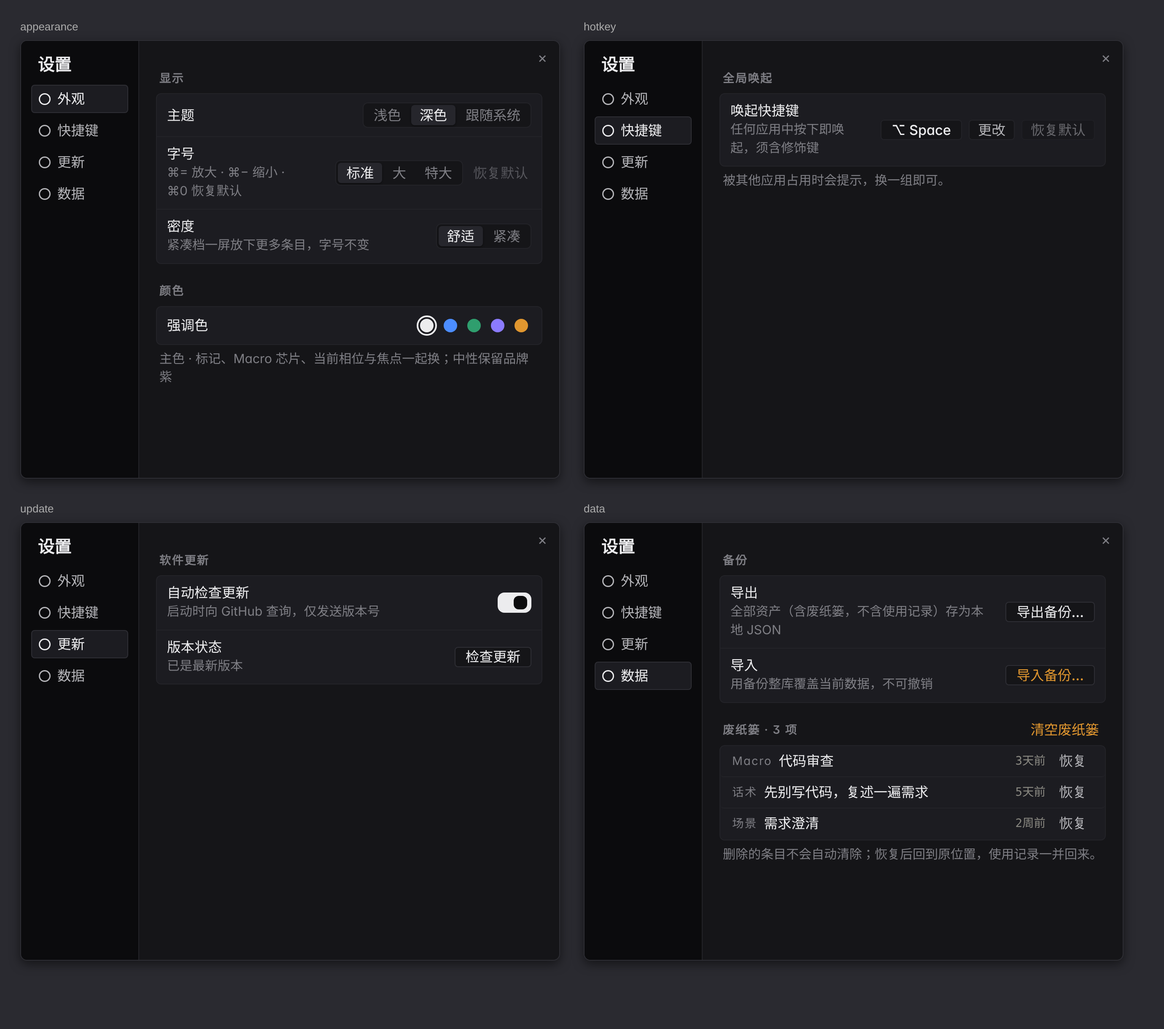
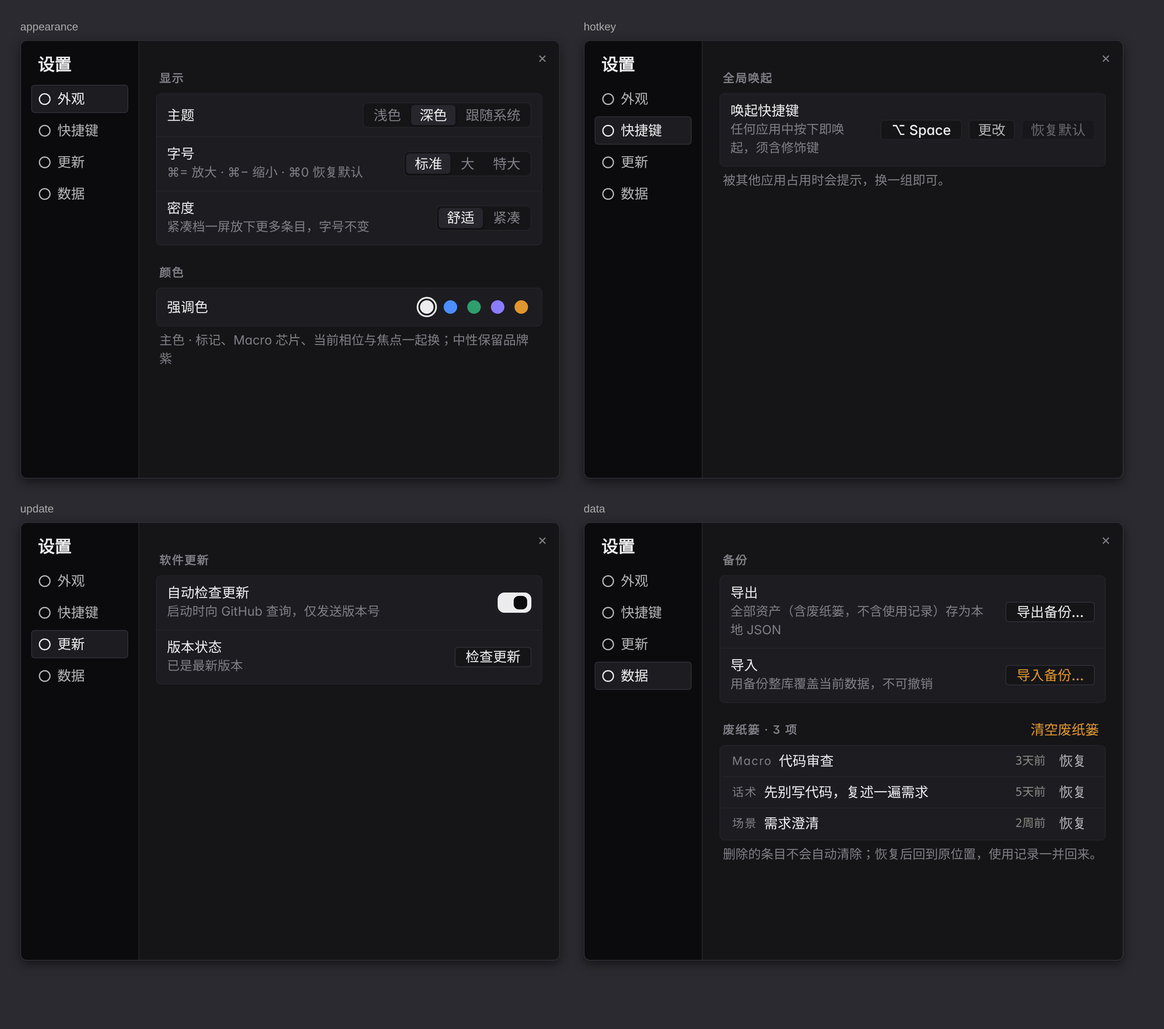
feat(settings)!: drop the text-size 恢复默认 button (#29, needs sign-off)
The 标准 step is itself "restore default", and ⌘0 still returns to it, so the
button was a third entry point for one action with no place in the grouped
row. ⌘0 behaviour and its App.test case are untouched.

This changes the first half of issue #25's acceptance line ("恢复默认 and ⌘0
both return to 标准") and awaits HuiW86's sign-off. Kept in its own commit,
together with the test and the doc lines that concern only this item, so it
can be reverted on its own if declined.

BREAKING CHANGE: the 字号 row no longer has a 恢复默认 button.

Claude-Session: https://claude.ai/code/session_01NAChtZX6rWB3XJEK9qFLX6

diff --git a/src/components/__tests__/SettingsModal.test.tsx b/src/components/__tests__/SettingsModal.test.tsx
@@ -202,15 +202,12 @@ describe("SettingsModal — appearance text size (字号)", () => {
     useSettingsStore.setState({ settingsOpen: true });
   });
 
-  it("picks a step, applies it live, and 恢复默认 resets it", () => {
+  it("picks a step, applies it live, and 标准 is the way back", () => {
     render(<SettingsModal />);
     const group = screen.getByRole("group", { name: "字号" });
     const standard = group.querySelector('[data-font-scale="standard"]')!;
     const xlarge = group.querySelector('[data-font-scale="xlarge"]')!;
-    const reset = screen.getByRole("button", { name: "恢复默认字号" });
     expect(standard).toHaveAttribute("aria-pressed", "true");
-    // Nothing to restore at the default: disabled, not hidden.
-    expect(reset).toBeDisabled();
 
     fireEvent.click(xlarge);
     expect(useSettingsStore.getState().fontScale).toBe("xlarge");
@@ -218,14 +215,18 @@ describe("SettingsModal — appearance text size (字号)", () => {
     expect(document.documentElement.classList.contains("text-xlarge")).toBe(
       true,
     );
-    expect(reset).toBeEnabled();
 
-    fireEvent.click(reset);
+    // No separate 恢复默认 button (issue #29): the 标准 step is the default,
+    // and ⌘0 (App.test) still returns to it.
+    expect(
+      screen.queryByRole("button", { name: "恢复默认字号" }),
+    ).not.toBeInTheDocument();
+    fireEvent.click(standard);
     expect(useSettingsStore.getState().fontScale).toBe("standard");
+    expect(standard).toHaveAttribute("aria-pressed", "true");
     expect(document.documentElement.classList.contains("text-xlarge")).toBe(
       false,
     );
-    expect(reset).toBeDisabled();
   });
 
   it("names the keyboard shortcuts so the setting is findable without the dialog", () => {

diff --git a/src/components/SettingsModal.tsx b/src/components/SettingsModal.tsx
@@ -12,7 +12,6 @@ import { useEffect, useRef, useState } from "react";
 import { ipc } from "../ipc";
 import {
   type Accent,
-  DEFAULT_FONT_SCALE,
   type Density,
   type FontScale,
   type ThemeMode,
@@ -449,6 +448,8 @@ export function SettingsModal() {
                         <span className={styles.nowrap}>{mod}0 恢复默认</span>
                       </span>
                     </div>
+                    {/* No separate 恢复默认 button (issue #29): the 标准 step is
+                        the default, and ⌘0 still returns to it. */}
                     <div className={styles.rowControl}>
                       <Segment
                         label="字号"
@@ -457,16 +458,6 @@ export function SettingsModal() {
                         onChange={setFontScale}
                         dataAttr="data-font-scale"
                       />
-                      <button
-                        type="button"
-                        className={styles.resetBtn}
-                        data-font-scale-reset
-                        aria-label="恢复默认字号"
-                        disabled={fontScale === DEFAULT_FONT_SCALE}
-                        onClick={() => setFontScale(DEFAULT_FONT_SCALE)}
-                      >
-                        恢复默认
-                      </button>
                     </div>
                   </div>
 

diff --git a/src/components/SettingsModal.module.css b/src/components/SettingsModal.module.css
@@ -316,36 +316,6 @@
   outline-offset: 0;
 }
 
-/* Quiet text button after the text-size segment: secondary to picking a size,
-   and disabled (not hidden) at the default so its place does not jump. */
-.resetBtn {
-  composes: ph-action from "../styles/typography.module.css";
-  height: var(--h-chip);
-  padding: 0 var(--s-1);
-  border: 0;
-  border-radius: var(--r-3);
-  background: transparent;
-  color: var(--fg-2);
-  cursor: pointer;
-  appearance: none;
-  transition: color var(--d-fast) var(--ease);
-}
-
-.resetBtn:hover:not(:disabled) {
-  color: var(--fg-1);
-  text-decoration: underline;
-}
-
-.resetBtn:disabled {
-  color: var(--fg-4);
-  cursor: default;
-}
-
-.resetBtn:focus-visible {
-  outline: var(--border-thick) solid var(--accent);
-  outline-offset: 0;
-}
-
 /* ── Accent swatches ────────────────────────────────────────────────────────
    Round dots; the picked one gets an outer ring (issue #29 V6/7). padding: 0
    is load-bearing: the UA button padding squeezed the 16px dot inside the 24px

diff --git a/docs/design/03-product-spec.md b/docs/design/03-product-spec.md
@@ -4,7 +4,7 @@ project: prompt-hub
 version: v0.34
 created: 2026-05-18
 last_modified: 2026-11-14
-status: draft  # v0.34 起草于 2026-11-14，待 HuiW86 签字（与 [[05-design-spec]] v0.28 同批，单裁点「设置弹窗改分组行形态」，issue #29 / PR #30）：§13.3 区域 9 结构与文案按新形态改写，交互契约一条不改，明细见文末修订记录 v0.34。前 v0.33 于 2026-11-14 经 HuiW86 签字（与 [[05-design-spec]] v0.27 同批，单裁点「字号可调 + 悬停全文预览」按推荐写回，issue #25 / PR #26），明细见文末修订记录 v0.33。前 v0.32 于 2026-11-14 经 HuiW86 签字，单裁点按推荐通过（与 [[032-panorama-work-stage-columns]] / [[05-design-spec]] v0.26 / [[06-prd]] v0.18 同批，单裁点「全景按工作阶段分列」），明细见文末修订记录 v0.32。前 v0.31 于 2026-11-13 经 HuiW86 签字（单裁点「唤起时进入哪个工作区」按推荐通过，实现时补一条例外：管理里有编辑面板开着时留在管理，防丢草稿）。起草说明：把已落地的「全景 / 管理 / 常用网站」三个工作区补写进契约（照 [[031-panorama-default-view]] 与 [[030-website-library]] 回流，新增 §13.6，§4.1 / §13.1 / §13.2 / §13.4 随之改口），本批唯一裁点「唤起是否总是回到全景」，明细见文末修订记录 v0.31。前 v0.30 于 2026-10-08 经 Rosa 在项目线程签字（人审批次 ⑬，单裁点「主界面减法 pass 四项」按推荐通过）：Header 副标与区域副标删除 / 相位格 `⌘N` 由常驻标签改悬停提示 / 对齐行标签改中文「对齐」（Toast 挪位属 [[05-design-spec]] 同批），明细见文末修订记录 v0.30。前 v0.29 于 2026-09-06 经 omar 签字（人审批次 ⑫，单裁点）：**编辑器加一行修订说明输入**——§13.3 区域 2-bis 编辑段新增「这次为什么改」可选单行输入（只在编辑态出现 / 正文未变时置灰并说明「改了正文才会记」/ 只填说明不算改动 / 正文真变时随保存写入，留空即清掉上一条、不预填旧值）。触发是 [[HANDOFF]] 第 53 项：[[029-alignment-coordinates-and-drift-ledger]] 子决策 5 的 `notes` 只有 Rust 与 IPC 写入方、UI 从无入口，真机上改完正文它永远 NULL，明细面的「修订前 / 后」两段只有日期没有理由；omar 裁 a（备选 b 是改口径让 `notes` 只由 MCP / 导入写，否决）。当日落地，前端 +3 用例。前 v0.28 于 2026-09-06 经 omar 签字（人审批次 ⑪，单裁点）：§13.3 区域 7「中途口令 N 次」**只加一条澄清、不改任何规则**——调用态下复制即隐窗，这一格实际只在整理态读得到；omar 裁「接受现状」（[[HANDOFF]] 第 48 项三选一的 c，备选 a 改「今日」计数 / b 明细另给入口均否决），它是整理态的读数，会话语义与隐窗规则都不动。前 v0.27 于 2026-09-05 人审批次 ⑩ 经 omar 签字（与 [[10-ops-spec]] v0.5 同批；唯一裁点「数据页忙碌中禁止关窗」按推荐通过）。v0.27（2026-09-04 · [[HANDOFF]] 第 21.3 项回流）**只加一条契约**：§13.3 区域 9「数据页忙碌中弹窗不可关」——导入 / 导出进行中，Esc 被认领后无事发生、遮罩与 × 无效，按钮态显 disabled。**本批唯一裁点：导入中禁止关窗（已通过）**——理由是 `import_data` 转 async 之后主线程不再冻结，而「主线程冻结」此前恰好是唯一挡着用户在导入期间改资产的东西，这条守卫是 async 化之后的唯一互斥，不是交互偏好。其余一字未动。前 v0.26 于 2026-09-04 经 omar 签字（人审批次 ⑨，与 [[06-prd]] v0.15 同批；两个裁点——spec §3.5 补第 9 行 / `⌘9` 顶掉当前相位记为已知代价——均按推荐通过）。起草说明——[[029-alignment-coordinates-and-drift-ledger]] 图纸回流：第 9 相位「中途」入相位带（`⌘9`）+ 对齐话术三列可空坐标（复制时拼前缀）+ 中途口令隐式记账 + 状态栏一格口令计数 + 轴取值就地可配。**v0.26 的内容已于 2026-09-05 全部落地**（P1 `345e37f` / P2 `3af8308`，真机门 G7 见 [[11-test-spec#4.6]]）。按 [[CLAUDE#§5.1.2]] 属图纸类改动（改的是「应该长什么样」），需 omar 签字后才转 ratified。前 v0.25 于 2026-09-03 人审批次 ⑧ 经 omar 签字（与 [[06-prd]] v0.14 / [[05-design-spec]] v0.22 同批），内容为 §13.3 新增「删除语义统一契约」+ 区域 9 废纸篓与「导出含废纸篓」告知 + 编辑容器契约 c 的 Esc 阶梯减一级；更前 v0.24 / v0.23 见文末修订记录
+status: draft  # v0.34 起草于 2026-11-14，待 HuiW86 签字（与 [[05-design-spec]] v0.28 同批，单裁点「设置弹窗改分组行形态，并删掉字号旁的「恢复默认」按钮」，issue #29 / PR #30）：§13.3 区域 9 结构与文案按新形态改写，除字号「恢复默认」按钮外交互契约一条不改，明细见文末修订记录 v0.34。前 v0.33 于 2026-11-14 经 HuiW86 签字（与 [[05-design-spec]] v0.27 同批，单裁点「字号可调 + 悬停全文预览」按推荐写回，issue #25 / PR #26），明细见文末修订记录 v0.33。前 v0.32 于 2026-11-14 经 HuiW86 签字，单裁点按推荐通过（与 [[032-panorama-work-stage-columns]] / [[05-design-spec]] v0.26 / [[06-prd]] v0.18 同批，单裁点「全景按工作阶段分列」），明细见文末修订记录 v0.32。前 v0.31 于 2026-11-13 经 HuiW86 签字（单裁点「唤起时进入哪个工作区」按推荐通过，实现时补一条例外：管理里有编辑面板开着时留在管理，防丢草稿）。起草说明：把已落地的「全景 / 管理 / 常用网站」三个工作区补写进契约（照 [[031-panorama-default-view]] 与 [[030-website-library]] 回流，新增 §13.6，§4.1 / §13.1 / §13.2 / §13.4 随之改口），本批唯一裁点「唤起是否总是回到全景」，明细见文末修订记录 v0.31。前 v0.30 于 2026-10-08 经 Rosa 在项目线程签字（人审批次 ⑬，单裁点「主界面减法 pass 四项」按推荐通过）：Header 副标与区域副标删除 / 相位格 `⌘N` 由常驻标签改悬停提示 / 对齐行标签改中文「对齐」（Toast 挪位属 [[05-design-spec]] 同批），明细见文末修订记录 v0.30。前 v0.29 于 2026-09-06 经 omar 签字（人审批次 ⑫，单裁点）：**编辑器加一行修订说明输入**——§13.3 区域 2-bis 编辑段新增「这次为什么改」可选单行输入（只在编辑态出现 / 正文未变时置灰并说明「改了正文才会记」/ 只填说明不算改动 / 正文真变时随保存写入，留空即清掉上一条、不预填旧值）。触发是 [[HANDOFF]] 第 53 项：[[029-alignment-coordinates-and-drift-ledger]] 子决策 5 的 `notes` 只有 Rust 与 IPC 写入方、UI 从无入口，真机上改完正文它永远 NULL，明细面的「修订前 / 后」两段只有日期没有理由；omar 裁 a（备选 b 是改口径让 `notes` 只由 MCP / 导入写，否决）。当日落地，前端 +3 用例。前 v0.28 于 2026-09-06 经 omar 签字（人审批次 ⑪，单裁点）：§13.3 区域 7「中途口令 N 次」**只加一条澄清、不改任何规则**——调用态下复制即隐窗，这一格实际只在整理态读得到；omar 裁「接受现状」（[[HANDOFF]] 第 48 项三选一的 c，备选 a 改「今日」计数 / b 明细另给入口均否决），它是整理态的读数，会话语义与隐窗规则都不动。前 v0.27 于 2026-09-05 人审批次 ⑩ 经 omar 签字（与 [[10-ops-spec]] v0.5 同批；唯一裁点「数据页忙碌中禁止关窗」按推荐通过）。v0.27（2026-09-04 · [[HANDOFF]] 第 21.3 项回流）**只加一条契约**：§13.3 区域 9「数据页忙碌中弹窗不可关」——导入 / 导出进行中，Esc 被认领后无事发生、遮罩与 × 无效，按钮态显 disabled。**本批唯一裁点：导入中禁止关窗（已通过）**——理由是 `import_data` 转 async 之后主线程不再冻结，而「主线程冻结」此前恰好是唯一挡着用户在导入期间改资产的东西，这条守卫是 async 化之后的唯一互斥，不是交互偏好。其余一字未动。前 v0.26 于 2026-09-04 经 omar 签字（人审批次 ⑨，与 [[06-prd]] v0.15 同批；两个裁点——spec §3.5 补第 9 行 / `⌘9` 顶掉当前相位记为已知代价——均按推荐通过）。起草说明——[[029-alignment-coordinates-and-drift-ledger]] 图纸回流：第 9 相位「中途」入相位带（`⌘9`）+ 对齐话术三列可空坐标（复制时拼前缀）+ 中途口令隐式记账 + 状态栏一格口令计数 + 轴取值就地可配。**v0.26 的内容已于 2026-09-05 全部落地**（P1 `345e37f` / P2 `3af8308`，真机门 G7 见 [[11-test-spec#4.6]]）。按 [[CLAUDE#§5.1.2]] 属图纸类改动（改的是「应该长什么样」），需 omar 签字后才转 ratified。前 v0.25 于 2026-09-03 人审批次 ⑧ 经 omar 签字（与 [[06-prd]] v0.14 / [[05-design-spec]] v0.22 同批），内容为 §13.3 新增「删除语义统一契约」+ 区域 9 废纸篓与「导出含废纸篓」告知 + 编辑容器契约 c 的 Esc 阶梯减一级；更前 v0.24 / v0.23 见文末修订记录
 author: co  # 🤝 人机共创（CLAUDE §5.2）
 related: [[01-spec]], [[05-design-spec]], [[06-prd]], [[012-lock-visual-quality-anchor]], [[024-dark-cockpit-identity]], [[019-supersede-flat-visual-anchor]], [[020-restore-protocol-dark-band]], [[021-scene-layered-editing]], [[022-cross-scene-phrase-move]], [[025-unified-anchored-editing]], [[027-configurable-global-hotkey]], [[013-alignment-phrases-tab-inclusion]], [[015-expose-mcp-write-pipeline]], [[017-enable-auto-update]], [[018-absorb-promptscape-design]], [[026-fixed-spatial-layout]], [[028-reversible-delete]], [[029-alignment-coordinates-and-drift-ledger]]
 description: 手动 AI 编程仪表盘的 UI 契约——双形态架构/布局/点击路径/状态反馈/用户旅程/主形态 UI 草案；写 UI / 改交互时召回。版本叙事见 CHANGELOG
@@ -967,7 +967,7 @@ dirty 判定以**初始值快照**比对，不以「是否聚焦过」判定。
   - **形态（v0.34 · [issue #29](https://github.com/HuiW86/prompt-hub/issues/29)）**：每页是若干**分组**，每组一张卡片，卡片里每行「左边名称 + 一行短说明、右边控件」。弹窗**固定尺寸**，切页时不变大变小，内容放不下时在右侧内部滚动；右侧不再重复页面名（左栏选中项已经说了）。**危险动作用琥珀色文字**与普通操作区分（「导入备份…」「清空废纸篓」），其余按钮中性。视觉契约见 [[05-design-spec#10.8.3]]
   - **外观页**（v0.34：分「显示」「颜色」两组——显示组为主题 / 字号 / 密度三行，颜色组为强调色一行；分段控件只显示档名，不带图标与百分比）：主题模式三态分段控件（浅色 / 深色 / 跟随系统）+ **字号三档分段控件（标准 100% / 大 112.5% / 特大 125%，v0.33 · issue #25）**+ 强调色 5 色 swatch（中性 / 蓝 / 绿 / 紫 / 琥珀）+ **密度两档分段控件（舒适 / 紧凑，v0.23 补回流）**——紧凑档收紧行高与区块留白、字号不变，契约见 [[05-design-spec#2.7]]；偏好 persist localStorage（[[02-constitution#A2]] 不出站）
     - **默认深色且恒定（v0.23 补回流 · [[024-dark-cockpit-identity]]）**：主形态以深色为身份默认，**不随 OS 亮暗**；浅色是显式设置项，「跟随系统」也须显式选。旧装机带的 `light` 默认在 persist v2 迁移时一次性重置为深色，之后用户选浅色照常持久化。视觉依据见 [[05-design-spec#2.5]] / §2.4.6
-    - **字号（v0.33）**：放大全部界面文字与全文预览，**留白与布局不变**——不做整页缩放，因为整页缩放会让全景一屏装下的条目变少（§4.1 一屏全景）。选择即时生效；段后「恢复默认」回到标准（已是标准时置灰而非隐藏）；快捷键 `⌘=`（或 `⌘+`）放大一档、`⌘−` 缩小一档、`⌘0` 恢复默认，到两端不再变化，任何界面都生效、不需打开设置。上限 125% 由最紧的固定高度行决定，视觉契约见 [[05-design-spec#2.1]]。与密度两条轴互不覆盖：密度只收留白，字号只放大字
+    - **字号（v0.33）**：放大全部界面文字与全文预览，**留白与布局不变**——不做整页缩放，因为整页缩放会让全景一屏装下的条目变少（§4.1 一屏全景）。选择即时生效；回到默认就是选「标准」档（**v0.34 删去段后的「恢复默认」按钮**：在新形态里没有位置，留着就是同一个动作的第三个入口）；快捷键 `⌘=`（或 `⌘+`）放大一档、`⌘−` 缩小一档、`⌘0` 恢复默认，到两端不再变化，任何界面都生效、不需打开设置。上限 125% 由最紧的固定高度行决定，视觉契约见 [[05-design-spec#2.1]]。与密度两条轴互不覆盖：密度只收留白，字号只放大字
     - **选彩色强调色 = 同时换品牌身份色**（ADR-024 补遗）：蓝 / 绿 / 紫 / 琥珀任一 swatch 同时接管 logo / 活动相位 / Macro 芯片的 `--brand` 系；中性不接管。界面说明（v0.34 压短，原意不变）：「主色 · 标记、Macro 芯片、当前相位与焦点一起换；中性保留品牌紫」
   - **快捷键页（v0.20 新增 · 涟漪 [[027-configurable-global-hotkey]]）**：单字段「全局唤起」（v0.34：一组一行「唤起快捷键」）——当前组合键 keycap + 「更改」/「恢复默认」两键。**为什么独立成页而不并入外观**：唤起键是行为绑定不是外观偏好，且两者持久化归属不同（见下方「设置持久化归属」）
     - **录键是一种模式，不是输入框**：值是物理组合键，唯一诚实的录入方式是按下它。「更改」进入录键态 → window `keydown` **capture 阶段全量捕获 + `stopPropagation`**，否则正在录的组合键会同时触发它当前绑定的应用内动作
@@ -1159,7 +1159,9 @@ dirty 判定以**初始值快照**比对，不以「是否聚焦过」判定。
 
 > **状态：`draft`——待 HuiW86 签字**。图纸类改动（[[CLAUDE#§5.1.2]]），与 [[05-design-spec]] v0.28 同批；[[06-prd]] 不涉及（无数据层、无 IPC）。
 >
-> **一句话决定**：设置弹窗改为分组行形态（组卡片 + 左文右控 + 固定尺寸），危险动作琥珀字，说明压到一行；交互契约一条不改。推荐：同意。
+> **一句话决定**：设置弹窗改为分组行形态（组卡片 + 左文右控 + 固定尺寸），危险动作琥珀字，说明压到一行；删掉字号旁的「恢复默认」按钮。推荐：同意。
+>
+> **需要签字的取舍只有一条**：删「恢复默认」按钮——「标准」档本身就是恢复默认，`⌘0` 也还在；它改动了 v0.33（issue #25 验收）里「恢复默认与 ⌘0 可回到标准」的前半句。实现单独一个 commit，不同意可直接回退该 commit。
 >
 > **触发**：HuiW86「设置页面太丑了」。核查（issue #29）：无结构、分段控件选中态看不清、切页弹窗跳高、危险操作与普通操作同形、色点被挤成竖条、标题重复。实现见 PR #30。
 
@@ -1167,6 +1169,7 @@ dirty 判定以**初始值快照**比对，不以「是否聚焦过」判定。
 |------|------|
 | §13.3 区域 9 结构 | 新增「形态」：分组卡片 + 左文右控、固定尺寸切页不跳、右侧不重复页名、危险动作琥珀字 |
 | §13.3 区域 9 外观页 | 分「显示」「颜色」两组；分段控件只显示档名；强调色说明压短为「主色 · 标记、Macro 芯片、当前相位与焦点一起换；中性保留品牌紫」（原意不变：彩色同时换品牌色，中性不换） |
+| §13.3 区域 9 外观页 · 字号 | 删段后「恢复默认」按钮；`⌘0` 不变 |
 | §13.3 区域 9 快捷键 / 更新 / 数据页 | 各页分组结构；数据页「清空废纸篓」上移到组标题右侧；导出说明写明含废纸篓 |
 
 **不变**：Esc / 遮罩 / × 三路关闭与数据页忙碌锁、录键态 Esc 先退录键、清空废纸篓唯一确认框、焦点陷阱与回焦、四个页签与各自的 store、`⌘,` 唤起路径。

diff --git a/docs/design/05-design-spec.md b/docs/design/05-design-spec.md
@@ -4,7 +4,7 @@ project: prompt-hub
 version: v0.28
 created: 2026-05-18
 last_modified: 2026-11-14
-status: draft  # v0.28 起草于 2026-11-14，待 HuiW86 签字（与 [[03-product-spec]] v0.34 同批，单裁点「设置弹窗改分组行形态」，issue #29 / PR #30）：§10.8.3 按新形态重写，`--w-settings-modal` 560→640 + 新增 `--h-settings-modal` 520，不新增颜色 token，明细见文末修订记录 v0.28。前 v0.27 于 2026-11-14 经 HuiW86 签字（与 [[03-product-spec]] v0.33 同批，单裁点「字号可调 + 悬停全文预览」按推荐写回，issue #25 / PR #26），明细见文末修订记录 v0.27。前 v0.26 于 2026-11-14 经 HuiW86 签字（与 [[032-panorama-work-stage-columns]] / [[03-product-spec]] v0.32 / [[06-prd]] v0.18 同批，单裁点「全景按工作阶段分列」），只改列数与序号，明细见文末修订记录 v0.26。前 v0.25 于 2026-11-14 经 HuiW86 签字（单裁点「全景改编号泳道 + 号位键帽 + 筛选框不常亮焦点环」按推荐通过）。起草说明：全景工作区视觉精修（V-01，issue #19）——§10.9.1–10.9.3 按实装重写、§10.9.4 与 §10.8.1 补两行，零新增 token，明细见文末修订记录 v0.25。前 v0.24 于 2026-11-13 经 HuiW86 签字（同批单裁点在 product-spec 按推荐通过）。起草说明：全景工作区与常用网站工作区的视觉契约补写（新增 §10.9 / §10.10，§10.3 与 §10.8.1 补行），照现行 CSS 写，**零新增 token**；与 [[03-product-spec]] v0.31 / [[06-prd]] v0.17 同批，明细见文末修订记录 v0.24。前 v0.23 于 2026-10-08 经 Rosa 在项目线程签字（人审批次 ⑬，单裁点「主界面减法 pass 四项」按推荐通过）：Toast 由右上角挪到底部居中（状态栏上方）+ Header 副标 / 相位格快捷键标签退场（与 [[03-product-spec]] v0.30 同批），明细见文末修订记录 v0.23。前 v0.22 于 2026-09-03 人审批次 ⑧ 经 omar 签字（与 [[06-prd]] v0.14 / [[03-product-spec]] v0.25 同批）。本版内容：§10.2.2 `ConfirmInline` 用量由六处收缩至一处（清空废纸篓）+ §11 新增「Toast 让位规则」（撤销 toast 不被普通 toast 顶掉，error 例外），两项都是**行为契约**不是施工细节，按 [[CLAUDE#§5.1.2]] 需签字。前 v0.21 于 2026-09-03 人审批次 ⑦ ratified（§10.2.2 接口契约第 6 条随 product-spec「锚点再按一次 = 无事发生」签字，第 5 条 `initialFocus` 必填属施工规范随批通过）；更前 v0.20 于 2026-09-01 人审批次 ⑥ ratified
+status: draft  # v0.28 起草于 2026-11-14，待 HuiW86 签字（与 [[03-product-spec]] v0.34 同批，单裁点「设置弹窗改分组行形态，并删掉字号旁的「恢复默认」按钮」，issue #29 / PR #30）：§10.8.3 按新形态重写，`--w-settings-modal` 560→640 + 新增 `--h-settings-modal` 520，不新增颜色 token，明细见文末修订记录 v0.28。前 v0.27 于 2026-11-14 经 HuiW86 签字（与 [[03-product-spec]] v0.33 同批，单裁点「字号可调 + 悬停全文预览」按推荐写回，issue #25 / PR #26），明细见文末修订记录 v0.27。前 v0.26 于 2026-11-14 经 HuiW86 签字（与 [[032-panorama-work-stage-columns]] / [[03-product-spec]] v0.32 / [[06-prd]] v0.18 同批，单裁点「全景按工作阶段分列」），只改列数与序号，明细见文末修订记录 v0.26。前 v0.25 于 2026-11-14 经 HuiW86 签字（单裁点「全景改编号泳道 + 号位键帽 + 筛选框不常亮焦点环」按推荐通过）。起草说明：全景工作区视觉精修（V-01，issue #19）——§10.9.1–10.9.3 按实装重写、§10.9.4 与 §10.8.1 补两行，零新增 token，明细见文末修订记录 v0.25。前 v0.24 于 2026-11-13 经 HuiW86 签字（同批单裁点在 product-spec 按推荐通过）。起草说明：全景工作区与常用网站工作区的视觉契约补写（新增 §10.9 / §10.10，§10.3 与 §10.8.1 补行），照现行 CSS 写，**零新增 token**；与 [[03-product-spec]] v0.31 / [[06-prd]] v0.17 同批，明细见文末修订记录 v0.24。前 v0.23 于 2026-10-08 经 Rosa 在项目线程签字（人审批次 ⑬，单裁点「主界面减法 pass 四项」按推荐通过）：Toast 由右上角挪到底部居中（状态栏上方）+ Header 副标 / 相位格快捷键标签退场（与 [[03-product-spec]] v0.30 同批），明细见文末修订记录 v0.23。前 v0.22 于 2026-09-03 人审批次 ⑧ 经 omar 签字（与 [[06-prd]] v0.14 / [[03-product-spec]] v0.25 同批）。本版内容：§10.2.2 `ConfirmInline` 用量由六处收缩至一处（清空废纸篓）+ §11 新增「Toast 让位规则」（撤销 toast 不被普通 toast 顶掉，error 例外），两项都是**行为契约**不是施工细节，按 [[CLAUDE#§5.1.2]] 需签字。前 v0.21 于 2026-09-03 人审批次 ⑦ ratified（§10.2.2 接口契约第 6 条随 product-spec「锚点再按一次 = 无事发生」签字，第 5 条 `initialFocus` 必填属施工规范随批通过）；更前 v0.20 于 2026-09-01 人审批次 ⑥ ratified
 author: co  # 🤝 人机共创（CLAUDE §5.2）
 related: [[01-spec]], [[02-constitution]], [[03-product-spec]], [[012-lock-visual-quality-anchor]], [[023-ui-reshape-before-release]], [[024-dark-cockpit-identity]], [[019-supersede-flat-visual-anchor]], [[020-restore-protocol-dark-band]], [[021-scene-layered-editing]], [[025-unified-anchored-editing]], [[CLAUDE-DESIGN]], [[015-expose-mcp-write-pipeline]], [[016-choose-dnd-and-resizable-layout]], [[018-absorb-promptscape-design]], [[026-fixed-spatial-layout]], [[028-reversible-delete]], [[asset-editing-and-adaptive-layout]]
 description: 手动 AI 编程仪表盘的视觉规范——tokens.css 单一真源 + 主题/elevation/组件视觉契约；写 CSS / 视觉时召回。版本叙事见 CHANGELOG
@@ -924,7 +924,7 @@ bundle 派生的 3 个跨组件 chrome primitive：
 | 说明文案 | **每条一行**（默认字号、640 宽下）。说得长的放组脚注而不是行内 |
 | 分段控件 | **一个底槽内连续排列**：底槽 `--surface-1` 底 + `--hairline` `--border-1` 框 + `--r-4`、内边距与项间距 `--s-0_5`；项高 `--h-chip`、左右内边距 `--s-2_5`、`--r-3`、无框、透明底、`--fg-3`，hover `--fg-1`；**选中项实底 `--surface-3` + `--shadow-1` + `--fg-1`**（v0.28，原为分开的描边按钮、选中只把边框换成 `--accent`）。**只有文字**：去掉每项前的图标与字号档的百分比。焦点环 `--accent` |
 | 按钮 | 行内动作按钮：高 `--h-chip`、左右 `--s-3`、`--surface-1` 底 + `--border-2` 框 + `--r-3`、`ph-action` `--fg-1`，hover `--surface-3` + `--border-3`，disabled `--op-dim`；不带图标。**危险动作只换文字色为琥珀** `--accent-swatch-amber`（「导入备份…」「清空废纸篓」），沿用 HotkeyBanner / Toast / 录键提示的琥珀警示惯例，**不新增颜色 token**；其余按钮中性 |
-| 外观页 | 组「显示」三行：主题（浅色 / 深色 / 跟随系统，无说明）· 字号（标准 / 大 / 特大；说明列出 `⌘=` 放大 · `⌘−` 缩小 · `⌘0` 恢复默认，每个「键 + 动词」不折行；段后一枚文字按钮「恢复默认」，`--fg-2`，hover 下划线，标准档时 disabled 为 `--fg-4` 而非隐藏——位置不跳）· 密度（舒适 / 紧凑）。组「颜色」一行：强调色 5 个色点；组脚注一行写明彩色同时换品牌色 |
+| 外观页 | 组「显示」三行：主题（浅色 / 深色 / 跟随系统，无说明）· 字号（标准 / 大 / 特大；说明列出 `⌘=` 放大 · `⌘−` 缩小 · `⌘0` 恢复默认，每个「键 + 动词」不折行；**v0.28 删去段后的「恢复默认」文字按钮**——「标准」档本身就是恢复默认，`⌘0` 也还在）· 密度（舒适 / 紧凑）。组「颜色」一行：强调色 5 个色点；组脚注一行写明彩色同时换品牌色 |
 | 强调色色点 | 按钮 `--h-chip` 见方、**圆形**、**`padding: 0`**（v0.28 修：UA 默认 padding 曾把 16px 色点挤成竖条，Chrome 所见，WebKit 默认 padding 较小）、透明底；色点 `--s-4` 圆形，染 `--accent-swatch-*`；**选中 = `--border-thick` `--fg-1` 外环**（环与色点之间留 `--s-0_5` 空隙），hover 未选中项外环 `--border-3`；不再叠 `Check` 图标。色点间距 `--s-1` |
 | 快捷键页 | 组「全局唤起」一行：名称「唤起快捷键」+ 说明；右栏是录键器（键帽 +「更改」+「恢复默认」）。录键器的错误 / 冲突提示（琥珀字）占行下方整行。组脚注一行：被占用时会提示 |
 | 更新页 | 组「软件更新」两行：自动检查更新（opt-in `role="switch"` 开关，on 态染 `--accent`）· 版本状态（说明位显示状态文字，error 态提到 `--fg-1`；右栏「检查更新」或「下载并安装」——后者 `--accent` 实底，复用 updaterStore，[[017-enable-auto-update]]）|
@@ -1204,11 +1204,12 @@ bundle 派生的 3 个跨组件 chrome primitive：
 
 ### v0.28（2026-11-14）— 设置弹窗改分组行形态（[issue #29](https://github.com/HuiW86/prompt-hub/issues/29)）
 
-> **状态：`draft`——待 HuiW86 签字**，与 [[03-product-spec]] v0.34 同批。一句话决定：**设置弹窗改为 macOS 式分组行（组卡片 + 左文右控 + 底槽式分段控件 + 固定 640 × 520），危险动作改琥珀字。** 推荐：同意。实现见 PR #30。
+> **状态：`draft`——待 HuiW86 签字**，与 [[03-product-spec]] v0.34 同批。一句话决定：**设置弹窗改为 macOS 式分组行（组卡片 + 左文右控 + 底槽式分段控件 + 固定 640 × 520），危险动作改琥珀字，字号旁的「恢复默认」按钮删掉。** 推荐：同意。实现见 PR #30。
 
 | 章节 | 改动 |
 |------|------|
 | §10.8.3 | 整节按新形态重写：固定尺寸、去右侧重复标题、组 / 行 / 分段控件 / 按钮 / 色点契约，四页逐页结构 |
+| §10.8.3 外观页 | 删去 v0.27 新增的字号「恢复默认」文字按钮（需签字，单独 commit，可单独回退）|
 
 **token**：`--w-settings-modal` 560px → **640px**（改值）；新增 **`--h-settings-modal` 520px**。不新增颜色 token——琥珀字复用 `--accent-swatch-amber`。
 

diff --git a/docs/design/07-features.md b/docs/design/07-features.md
@@ -360,7 +360,7 @@ related:
 
 | 功能 | 优先级 | 状态 | 目标版本 | 测试覆盖 | 责任人 | 引用 |
 |---|---|---|---|---|---|---|
-| 字号三档（`--font-scale` 只缩 `--t-*`；设置 · 外观分段 +「恢复默认」；`⌘=` / `⌘+` · `⌘−` · `⌘0`；localStorage 持久化，未知值与旧数据回落标准）| P1 | `done` | v1.4 | `settingsStore.test.ts` **8**（根类 / 跨外观切换保留 / 两端停住 / 持久化 / 重新加载 / 未知值 / 旧数据）+ `SettingsModal.test.tsx` **2** + `App.test.tsx`「⌘= / ⌘− / ⌘0」| omar | [[03-product-spec#13.3]] 区域 9 · [[05-design-spec#2.1]] |
+| 字号三档（`--font-scale` 只缩 `--t-*`；设置 · 外观分段（v1.36 起不再有段后「恢复默认」按钮，回标准选「标准」档或 `⌘0`）；`⌘=` / `⌘+` · `⌘−` · `⌘0`；localStorage 持久化，未知值与旧数据回落标准）| P1 | `done` | v1.4 | `settingsStore.test.ts` **8**（根类 / 跨外观切换保留 / 两端停住 / 持久化 / 重新加载 / 未知值 / 旧数据）+ `SettingsModal.test.tsx` **2** + `App.test.tsx`「⌘= / ⌘− / ⌘0」| omar | [[03-product-spec#13.3]] 区域 9 · [[05-design-spec#2.1]] |
 | 悬停全文预览（替换原生 `title`；全景条目 / Macro 复制区 / Modifier 芯片；300 / 80 / 150ms；侧边放置、卡内滚动；点击 / 按键 / 卡外滚动 / 失焦 / 卸载即关；不用 `popover`）+ 全景名称两行、列名不截断 | P1 | `verified` | v1.4 | `HoverPreview.test.tsx` **9** + `PanoramaView.test.tsx`「悬停出全文、无 `title`」+ `App.test.tsx` Macro 预览断言 | omar | [[03-product-spec#13.6]] e · [[05-design-spec#10.11]] |
 
 ---
@@ -465,7 +465,7 @@ related:
 | 2026-09-05 | **v1.28 bump（记录类备注，矩阵不动）**：G7-7 Dock / Reopen 路径于当日第 47 项装机后在 `/Applications` 正式版补验通过——`reopen` 触发 `RunEvent::Reopen` 后复制记到新的 `session_started_at`（S2 ≠ S1）；§3.15 两处「部分」备注与 §7 缺口表脚注随之改写。[[11-test-spec]] 同批 v0.13。 | [[HANDOFF]] 第 47 项 |
 | 2026-09-05 | **v1.27 bump（[[029-alignment-coordinates-and-drift-ledger]] 三期落地 + 当日 G7 真机门，矩阵合计不变 106，`planned` 24 → 14 / `done` 7 → **9** / `verified` 74 → **82**）**：§3.15 十行由 `planned` 全数转 `done`——**P0 数据层 `0329520`**（migration `0014`，`user_version` 13→**14**：新表 `alignment_axis_values` 带 16 条 seed；`alignment_phrases` 加 `kind` / `layer_id` / `domain_id` / `mode_id` / `cue_axis` / `content_revised_at` 六列；第 9 相位「中途」与六条口令 seed 入库、默认「停」；`usage_records` **整表重建**加 `live_cue` 取值与 `session_started_at` 列，逐行比对无一丢失。IPC 56→**62**，导出 data schema 1.2→**1.3**，[[HANDOFF]] 21.1 的唤起会话戳并入同一支迁移）→ **P1 UI `345e37f`**（`buildAlignmentCopyText` 一个助手统管四个复制入口；chip 的名称后显示「层 · 域 · 模式」，全空则零渲染；编辑器三个坐标选择器默认「不限」；「管理…」作为每个选择器的最后一个 `<option>` 打开轴取值管理面；`⌘1-8` 扩为 `⌘1-9`，`⌘9` = 切中途 + 复制「停」+ 记 `live_cue`）→ **P2 归因展示 `3af8308`**（状态栏左侧第四格「中途口令 N 次」，N=0 连分隔符一起不渲染；点这一格按需打开漂移账明细，按锚点合计排序 + 逐轴计数 + 以 `content_revised_at` 切前后两段；措辞禁令由一条正则扫描守着）。**计数**：Rust 192 → **227**（repo-write unit 99 → 117 / repo-core unit 58 → 74 / MCP e2e 6 → 7）、前端 461 → **531**（41 → **45** 文件），IPC 56 → **62**，`user_version` 13 → **14**，源码级 gate 仍 **7**（第七道的豁免清单 10 → **11**），`ConfirmInline` 消费者 1 → **2**。**十行先一律 `done`，同日真机门 **G7** 跑完后 **8 行升 `verified`**（6 项通过 + 1 项修后通过；缺陷 **D-G7-1** 确认框把在用的轴取值报成「0 条」，修法 `4a68fa9`，回归用例 +1 使前端 531 → **532**），**2 行保持 `done`**——「修订切分点」只验了反面、「导出 1.2 → 1.3」未做真机往返，逐项见 [[11-test-spec#4.6]]。`bench:hotkey-wake` 同日复跑 p95 **14.139ms**（P0 在唤起路径上加了 `emit_wake`，这是自 2026-08-20 以来第一次真的动了 C1 那条路径），与旧值同档无回归。**verifier 抓出两个 P0 阻断同批修掉**：省略坐标载荷时连 `kind` 一起被清空 / 只有 P0 时口令复制会被记成 `phase_bar` 而不是 `live_cue`；**另有五处实施期偏离据实记在 CHANGELOG**（「管理…」寄生在 `<option>` 里 / 废纸篓条数另起一句 / `extraDirty` / 「停」无法单独成行 / 明细格只认鼠标）。涟漪 [[11-test-spec]] **v0.12**（§2 / §3 / §4 计数刷新 + §4.1 增 G7 行）| [[029-alignment-coordinates-and-drift-ledger]] P0 `0329520` / P1 `345e37f` / P2 `3af8308` |
 | 2026-09-06 | **v1.30 bump（[[HANDOFF]] 第 53 项落地 + 当日真机回查，`verified` 83 → **84** / `done` 8 → **7**，合计 106 不变）**：omar 在两选一里裁 a——**编辑器补上「这次为什么改」输入**，`notes` 从此有 UI 写入方。ADR-029 子决策 5 的「修订 = 改 `content` + 写 `notes`」此前只落到 Rust 与 IPC，编辑面从不发这个参数，于是真机上改完正文那一列永远 NULL、明细面的「修订前 / 后」两段只有日期没有理由（第 51 项补验发现）。落地口径四条：只在编辑态出现（新建不渲染）/ 正文未变时置灰并说明「改了正文才会记」/ 只填说明不算改动（不进 dirty，点外不保存）/ **正文真变时总是写入、留空即清掉上一条**（省略会让 `COALESCE` 把旧理由钉到新切分点上），正文没变则不发；覆盖上一条、不预填旧值。**说明目前只写不显**，明细面不回显，展示待第 54 项。前端 532 → **536**（四条用例全落在 `AlignmentPhrases.test.tsx` 29 → 33），Rust 227 / IPC 62 / `user_version` 14 / 源码级 gate 7 全部不动。**§3.15「修订切分点」仍 `done`**：jsdom 证得到参数发出去了，证不到 SQLite 那一列变了，§7 缺口表该行由「缺图纸」改回「**缺留证**」。**当日真机回查**：真机（2026-09-06 08:51 UTC，隔离 HOME + 真实库 v14 快照 + 裸 release `index-CCdGVSkT.js`）三步：改正文 + 填说明 → `notes` = 「第53项真机：补一句结论」且 `content_revised_at` 落戳；再改正文 + 留空 → `notes` = `''`（清掉上一条）且戳更新；只改名 → 两者都不动。编辑面多一行后 footer 仍可达、置灰态与提示按契约渲染（截图 `G7-53-*`），「修订切分点」升 `verified`。涟漪 [[03-product-spec]] **v0.29** / [[06-prd]] **v0.16**（同批人审 ⑫）/ [[11-test-spec]] **v0.15** |
-| 2026-11-14 | **v1.36 bump（issue #29 / PR #30，矩阵不动，合计 117）**：设置弹窗四页改分组卡片 + 左文右控、底槽式分段控件、固定 640 × 520、危险动作琥珀字、强调色圆点外环。交互契约未变，§3.11「设置弹窗」不降级；新视觉的留证只有按真实 CSS 静态重建的无头 Chrome 截图（`docs/settings-redesign/`），**WKWebView 真机未目测**。前端测试 640 → **642**（`SettingsModal` +2：页名只在导航出现一次 / 分段选项无图标无百分比）。契约同批 [[03-product-spec]] v0.34 / [[05-design-spec]] v0.28（待签字）| issue #29 |
+| 2026-11-14 | **v1.36 bump（issue #29 / PR #30，矩阵不动，合计 117）**：设置弹窗四页改分组卡片 + 左文右控、底槽式分段控件、固定 640 × 520、危险动作琥珀字、强调色圆点外环；删去字号旁「恢复默认」按钮（待签字）。交互契约未变，§3.11「设置弹窗」不降级；新视觉的留证只有按真实 CSS 静态重建的无头 Chrome 截图（`docs/settings-redesign/`），**WKWebView 真机未目测**。前端测试 640 → **642**（`SettingsModal` +2：页名只在导航出现一次 / 分段选项无图标无百分比）。契约同批 [[03-product-spec]] v0.34 / [[05-design-spec]] v0.28（待签字）| issue #29 |
 | 2026-11-14 | **v1.35 bump（G9 真机走查，`verified` 87 → **88** / `done` 15 → **14**，合计 117 不变）**：HuiW86 本机跑 `feba2ca` + 真实库完成 G9 四项（[[11-test-spec#4.8]]）。「悬停全文预览」留证齐升 `verified`；「字号三档」只验到特大档可见区域无重叠与恢复标准，重启保留、`⌘=` / `⌘−` / `⌘0` 未报告，留 `done` 并入 §7 留证缺口表；反查另查出 §3.17「导出 1.5 → 1.6」自 v1.32 起 `done` 却漏登，一并补上（12 → **14** 行）。 | G9 |
 | 2026-11-14 | **v1.34 bump（issue #25 / PR #26，合计 115 → **117**，`done` 13 → **15**）**：新增 §3.18 两行——字号三档、悬停全文预览（含全景名称两行）。契约同批 [[03-product-spec]] v0.33 / [[05-design-spec]] v0.27（HuiW86 签字）。留证只有真实渲染（Playwright WebKit，替身 IPC），无 Tauri 真机，两行停在 `done`。前端测试 **640**（50 文件）。 | PR #26 |
 | 2026-11-14 | **v1.33 bump（PR #24 真机复验，`verified` 85 → **87** / `done` 15 → **13**，合计 115 不变）**：HuiW86 本机跑开发版完成 G8-R1–R3（[[11-test-spec#4.7]]）。全景布局、全景布局数据层两行留证补齐升回 `verified`；「导出 1.5 → 1.6」只走了 1.6 往返、未走 1.5 旧备份，仍 `done` |

diff --git a/docs/design/11-test-spec.md b/docs/design/11-test-spec.md
@@ -68,7 +68,7 @@ v0.1 规划的四层金字塔已落地为下表实际形态（Playwright E2E 层
 
 ## §2 前端 Vitest 盘面
 
-> **v0.21 +2（issue #29 / PR #30 · 设置弹窗分组行形态，640 → 642，文件 50 不变）**：PR #30 在 macos-15 runner 上跑 `pnpm test` 得 **642 / 642、50 文件**（提交 `1be7c16`）。增量全在 `SettingsModal` **17 → 19**：页名只在左导航出现一次（右侧不再重复标题）/ 主题·字号·密度三组分段选项都不带图标与百分比。既有用例按文案与 role 查询，改版后无需改写——数据页按钮名「导出备份…」「导入备份…」、废纸篓区块 `region`「废纸篓」与「N 项」、「清空废纸篓」、录键「更改」都保留原文。token-gate 用例数不变（无新增 CSS 文件）。
+> **v0.21 +2（issue #29 / PR #30 · 设置弹窗分组行形态，640 → 642，文件 50 不变）**：PR #30 在 macos-15 runner 上跑 `pnpm test` 得 **642 / 642、50 文件**（提交 `1be7c16`）。增量全在 `SettingsModal` **17 → 19**：页名只在左导航出现一次（右侧不再重复标题）/ 主题·字号·密度三组分段选项都不带图标与百分比。既有用例按文案与 role 查询，改版后无需改写——数据页按钮名「导出备份…」「导入备份…」、废纸篓区块 `region`「废纸篓」与「N 项」、「清空废纸篓」、录键「更改」都保留原文。token-gate 用例数不变（无新增 CSS 文件）。另：字号用例「选档即生效 +「恢复默认字号」」改写为「选档即生效 + 选『标准』回到默认、不再有恢复默认按钮」，用例数不变（删按钮的单独 commit）；`⌘0` 回标准仍由 `App.test`「⌘= / ⌘− / ⌘0」覆盖。
 >
 > ⚠ **jsdom 验不了的部分**：分段选中态是否一眼可辨、固定尺寸下切页不跳、特大字号下内部滚动、琥珀字对比度——由按真实 CSS 静态重建的无头 Chrome 截图佐证（`docs/settings-redesign/after-*.png`），**不是真机门**；WKWebView 未目测。
 
